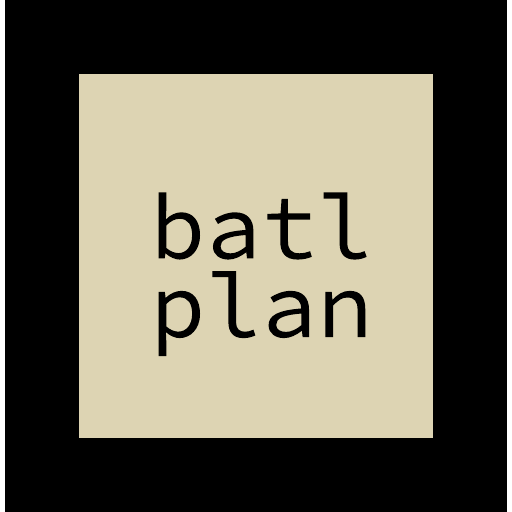
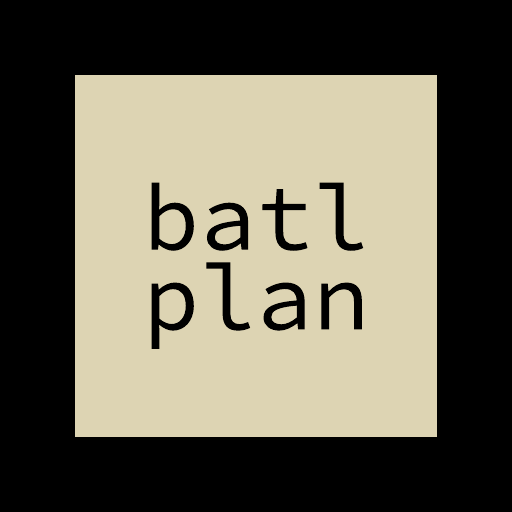
Add files via upload

diff --git a/service-worker.js b/service-worker.js
@@ -1,4 +1,4 @@
-const cacheName = "donext-personal-v11";
+const cacheName = "donext-personal-v12";
 const appFiles = [
   "./",
   "./index.html",